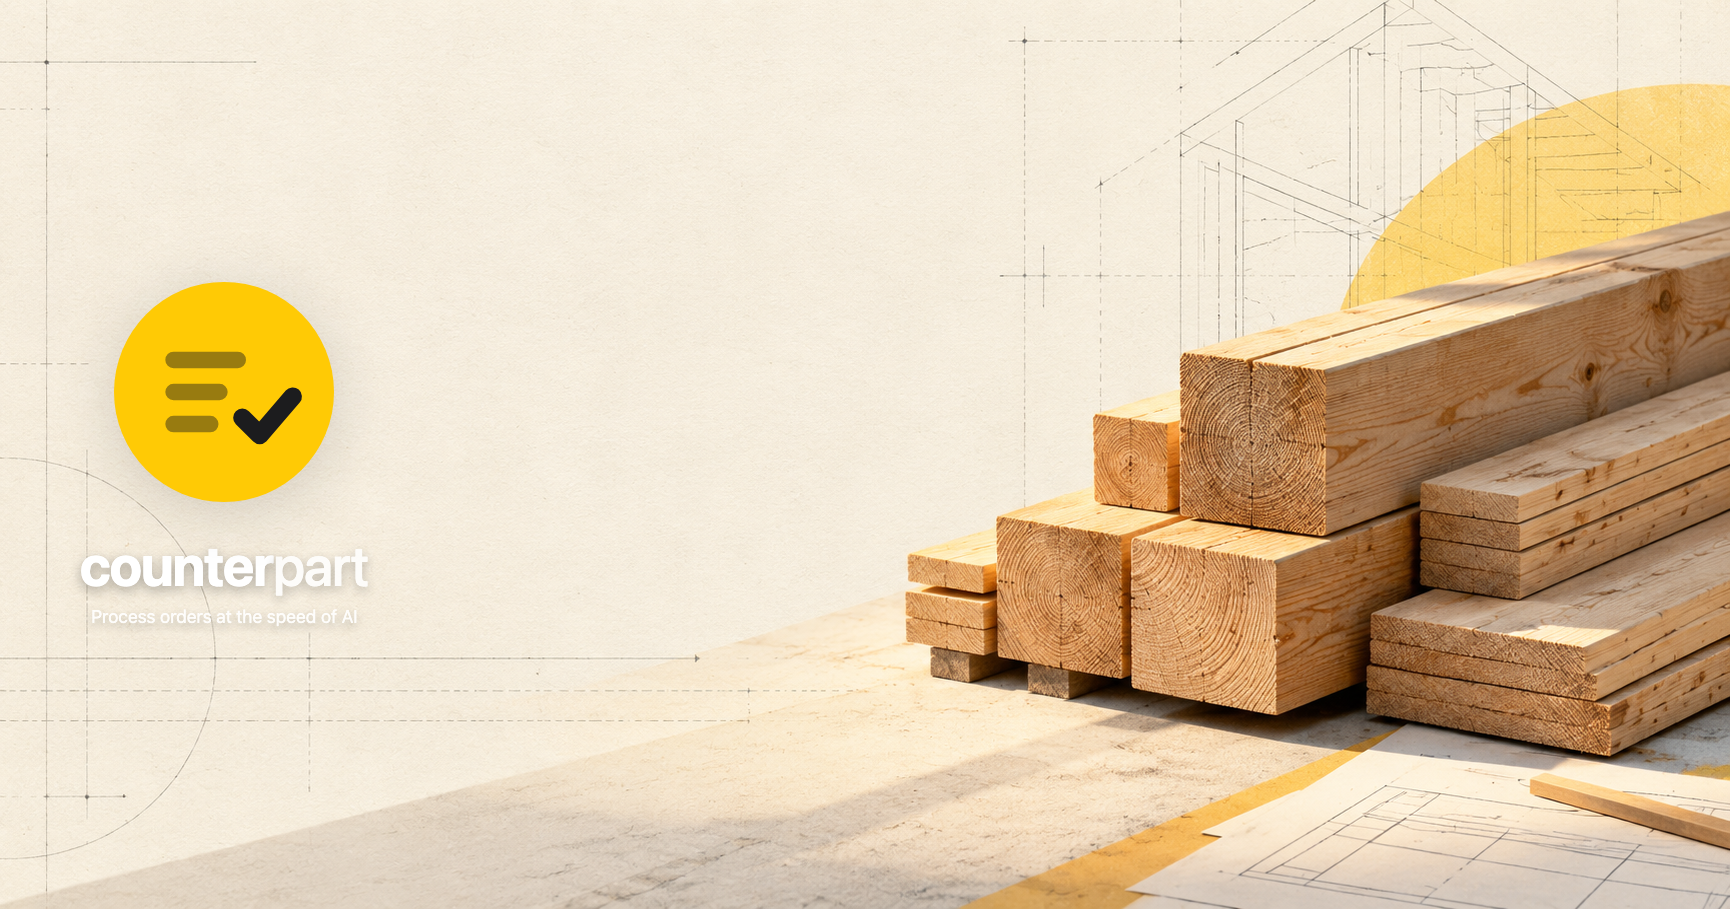
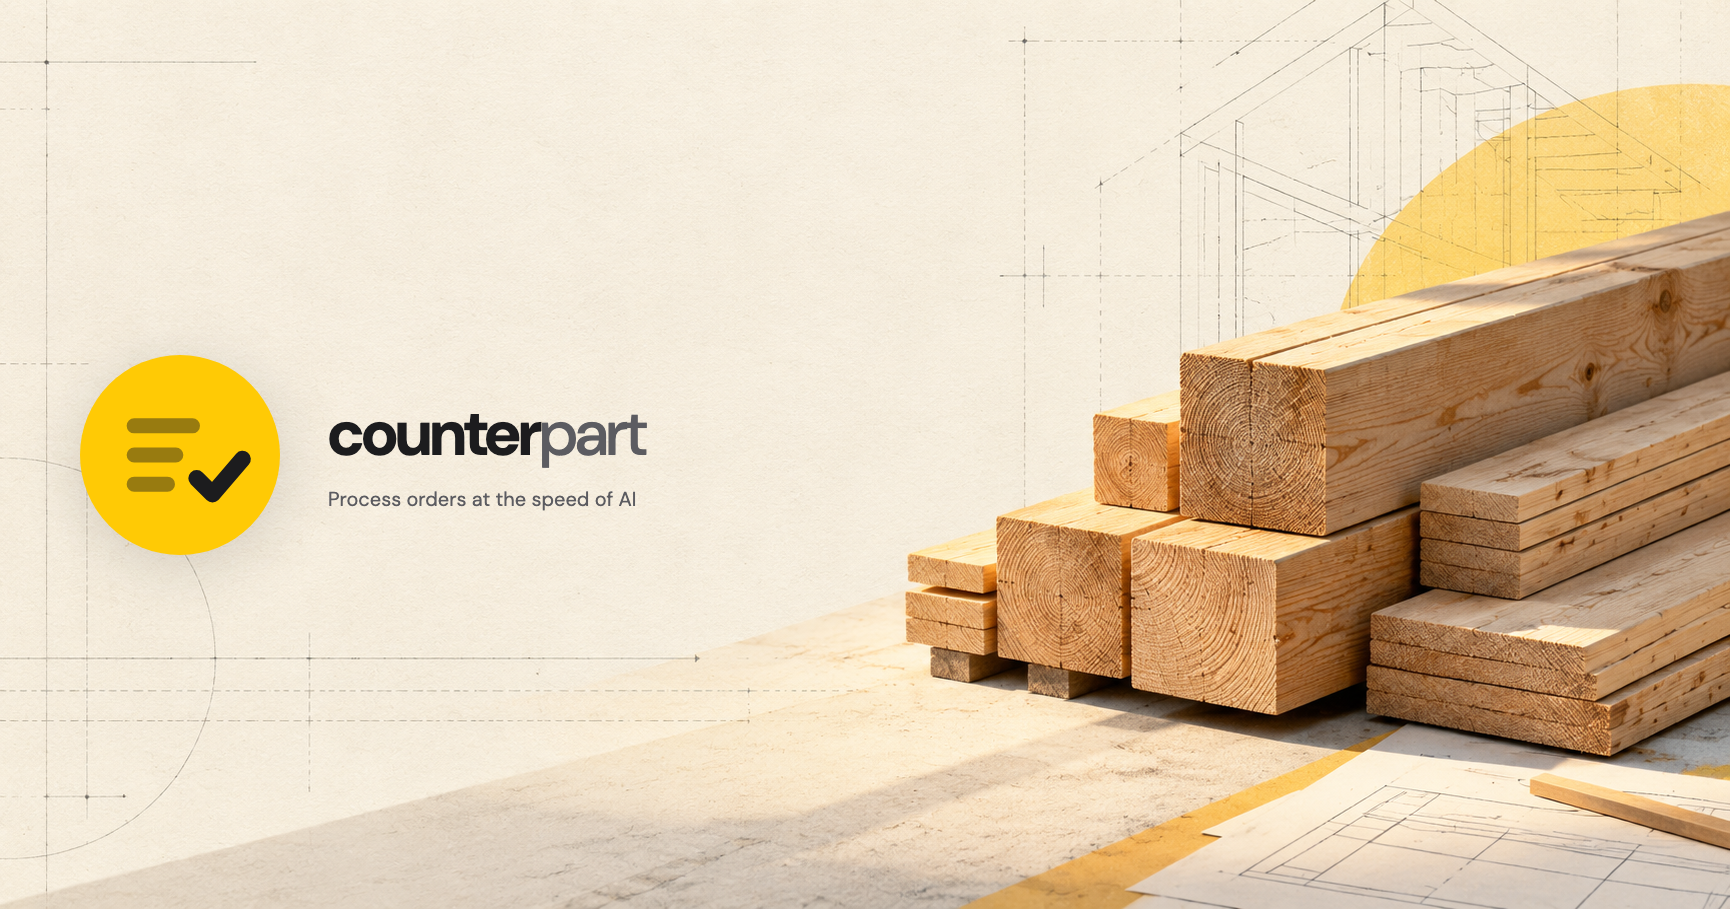
Update meta image: dark text, DM Sans font, horizontal layout matching app styling
- Wordmark now uses DM Sans (same as light mode app)
- Dark text (#1c1c1e) with grey accent (#5c5c61) for 'part'
- Logo and wordmark arranged horizontally (right-aligned)
- Matches app's typography and color scheme exactly

Claude-Session: https://claude.ai/code/session_01PmCVVwAYSx9db3XtMaUdxE

Changed region(s): [[0.0312, 0.308, 0.3746, 0.6777]]

diff --git a/scripts/generate-og-image.ts b/scripts/generate-og-image.ts
@@ -8,12 +8,13 @@ async function generateOGImage() {
 <html>
 <head>
   <meta charset="utf-8">
+  <link href="https://fonts.googleapis.com/css2?family=DM+Sans:opsz,wght@9..40,400;9..40,500;9..40,700&display=swap" rel="stylesheet">
   <style>
     * { margin: 0; padding: 0; }
     body {
       width: 1730px;
       height: 909px;
-      font-family: -apple-system, BlinkMacSystemFont, 'Segoe UI', sans-serif;
+      font-family: 'DM Sans', -apple-system, BlinkMacSystemFont, 'Segoe UI', sans-serif;
       display: flex;
       align-items: center;
       justify-content: flex-start;
@@ -32,35 +33,36 @@ async function generateOGImage() {
       z-index: 10;
       padding-left: 80px;
       display: flex;
-      flex-direction: column;
       align-items: center;
-      gap: 30px;
+      gap: 48px;
     }
     .logo {
-      width: 220px;
-      height: 220px;
+      width: 200px;
+      height: 200px;
+      flex-shrink: 0;
       filter: drop-shadow(0 10px 30px rgba(0,0,0,0.15));
     }
     .wordmark {
-      text-align: center;
-      color: white;
-      text-shadow: 0 4px 12px rgba(0,0,0,0.3);
+      color: #1c1c1e;
     }
     .wordmark h1 {
-      font-size: 56px;
-      font-weight: bold;
+      font-size: 64px;
+      font-weight: 700;
       margin: 0;
-      letter-spacing: -1px;
+      letter-spacing: -0.03em;
+      line-height: 1.2;
     }
     .part {
       font-weight: 500;
-      opacity: 0.85;
+      color: #5c5c61;
     }
     .wordmark p {
-      font-size: 18px;
+      font-size: 20px;
       margin: 0;
-      margin-top: 8px;
-      opacity: 0.9;
+      margin-top: 12px;
+      color: #5c5c61;
+      font-weight: 400;
+      line-height: 1.4;
     }
   </style>
 </head>
